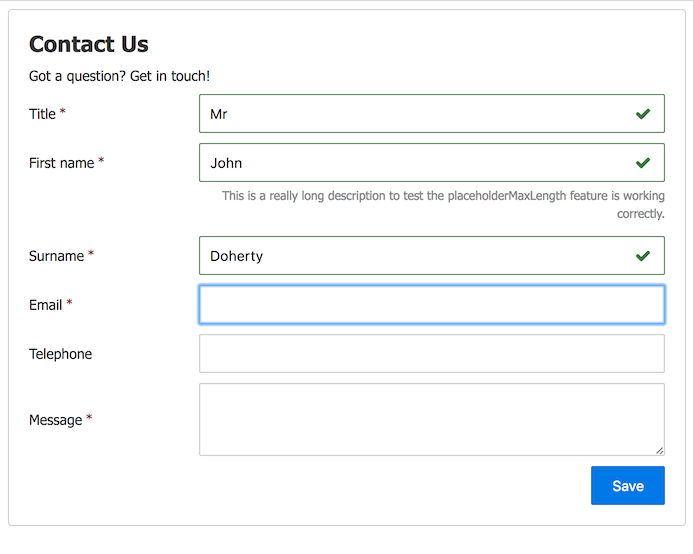
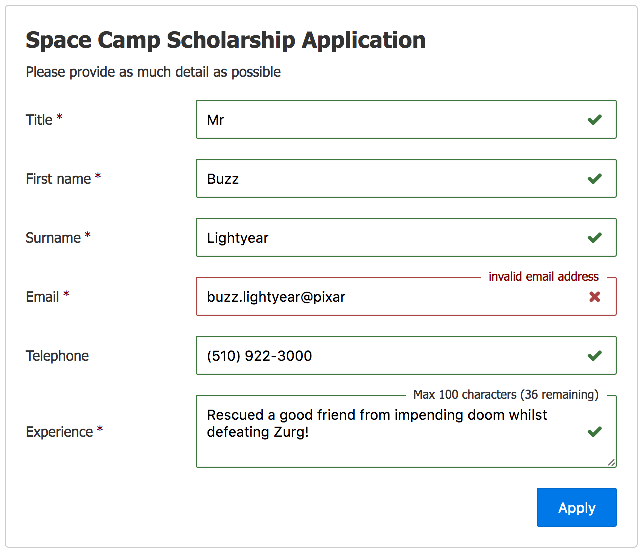
updated read me to include new example schema

diff --git a/src/pure-form.css b/src/pure-form.css
@@ -61,7 +61,7 @@ pure-form .pure-form-title {
 
 pure-form .pure-form-label {
     display: block;
-    margin: 10px 0;
+    margin: 20px 0;
     position: relative;
     clear: both;
     float: none;

diff --git a/README.MD b/README.MD
@@ -2,15 +2,17 @@
 
 [![Linked In](https://img.shields.io/badge/Linked-In-blue.svg)](https://www.linkedin.com/in/john-i-doherty) [![Twitter Follow](https://img.shields.io/twitter/follow/CambridgeMVP.svg?style=social&label=Twitter&style=plastic)](https://twitter.com/CambridgeMVP)
 
-Pure JavaScript drop in replacement for the HTML FORM, removing the need to manually craft/validate/UX HTML forms. Simply define your form requirements in a [JSON Schema](https://tools.ietf.org/html/draft-zyp-json-schema-03) and assign it to the new `pure-form` HTML tag:
+Pure JavaScript drop in replacement for the HTML FORM, removing the need to manually craft/validate/UX HTML forms.Simply define your form requirements in a [JSON Schema](https://tools.ietf.org/html/draft-zyp-json-schema-03) and assign it to the new `pure-form` HTML tag.
+
+For example:
 
 ```html
 <pure-form src="space-camp-application.json"></pure-form>
 ```
 
-Becomes:
+Produces:
 
-![Cucumber HTML report](docs/img/pure-form-screenshot.jpeg)
+![Cucumber HTML report](docs/img/pure-form-screenshot.png)
 
 Works in all modern desktop and mobile browsers from IE9+, including Cordova/PhoneGap and iconic projects.
 
@@ -71,25 +73,27 @@ Add the [dist/pure-form.min.js](dist/pure-form.min.js) and [dist/pure-form.min.c
 
 ### JSON Schema
 
-Pure form uses JSON Schema (v3) to define the forms input requirements and validation. The following `contact-form.json` referenced above:
+Pure form uses JSON Schema (v3) to define the forms input requirements and validation. The `space-camp-application.json` referenced above:
 
 ```json
 {
   "type": "object",
-  "id": "contact-form",
+  "id": "space-camp-application",
   "$schema": "http://json-schema.org/draft-03/schema#",
-  "title": "Contact Us",
-  "description": "Got a question? Get in touch!",
+  "title": "Space Camp Scholarship Application",
+  "description": "Please provide as much detail as possible",
   "links": [
-    { "rel": "create", "title": "Save", "href": "http://localhost:8080/contact", "method": "POST" }
+    { "rel": "self", "title": "Apply", "href": "http://localhost:8080/223423423342", "method": "PUT" }
   ],
+  "additionalProperties": false,
   "properties": {
     "title": {
       "title": "Title",
-      "id": "order:010",
+      "id": "order1",
       "type": "string",
       "required": true,
       "enum": [
+        "Dr",
         "Mr",
         "Mrs",
         "Ms"
@@ -97,35 +101,46 @@ Pure form uses JSON Schema (v3) to define the forms input requirements and valid
     },
     "firstName": {
       "title": "First name",
-      "id": "order:020",
+      "id": "order2",
       "type": "string",
-      "required": true
+      "required": true,
+      "description": "John"
     },
     "surname": {
       "title": "Surname",
-      "id": "order:030",
+      "id": "order3",
       "type": "string",
       "required": true,
-      "description": "Family name"
+      "description": "Appleseed"
     },
-    "dateOfBirth": {
+    "email": {
       "title": "Email",
-      "id": "order:040",
+      "id": "order4",
+      "type": "string",
+      "format": "email",
+      "required": true,
+      "description": "example@domain.com"
+    },
+    "phone": {
+      "title": "Telephone",
+      "id": "order5",
+      "type": "string"
+    },
+    "message": {
+      "title": "Experience",
+      "id": "order6",
       "type": "string",
       "format": "textarea",
-      "required": true
+      "required": true,
+      "maxLength": 100
     }
   }
 }
 ```
 
-A button is rendered for each link item, the title property is used as the button label. If the link object contains a rel that starts with `describedby:`, it is assumed to be a link to another schema - therefore clicking the button simply loads that schema.
+A button is rendered for each link item, the title property is used as the button label.
 
-### Rendered Output
-
-Produces the following form, including validation.
-
-![Cucumber HTML report](docs/img/pure-form-screenshot.jpeg)
+__If the link object contains a rel that starts with `describedby:`, it is assumed to be a link to another schema - therefore clicking that button simply loads that schema.__
 
 The markup created within the `pure-form` tag is just regular HTML and can be [styled accordingly](docs/STYLING.MD).
 
